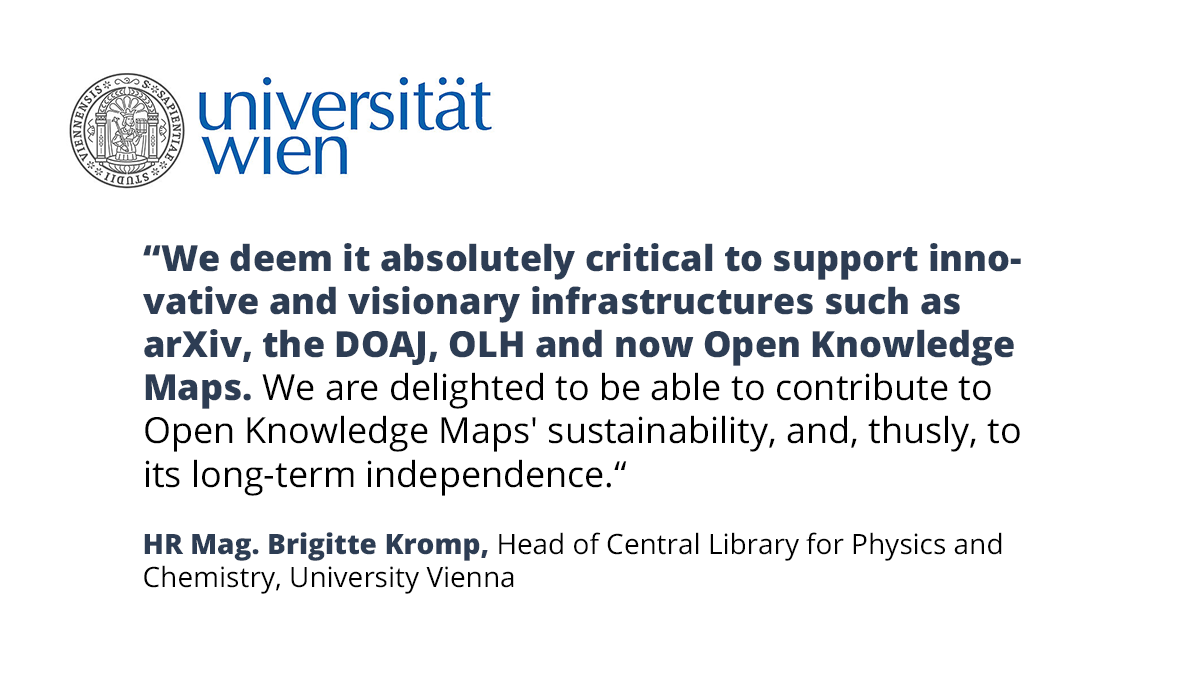
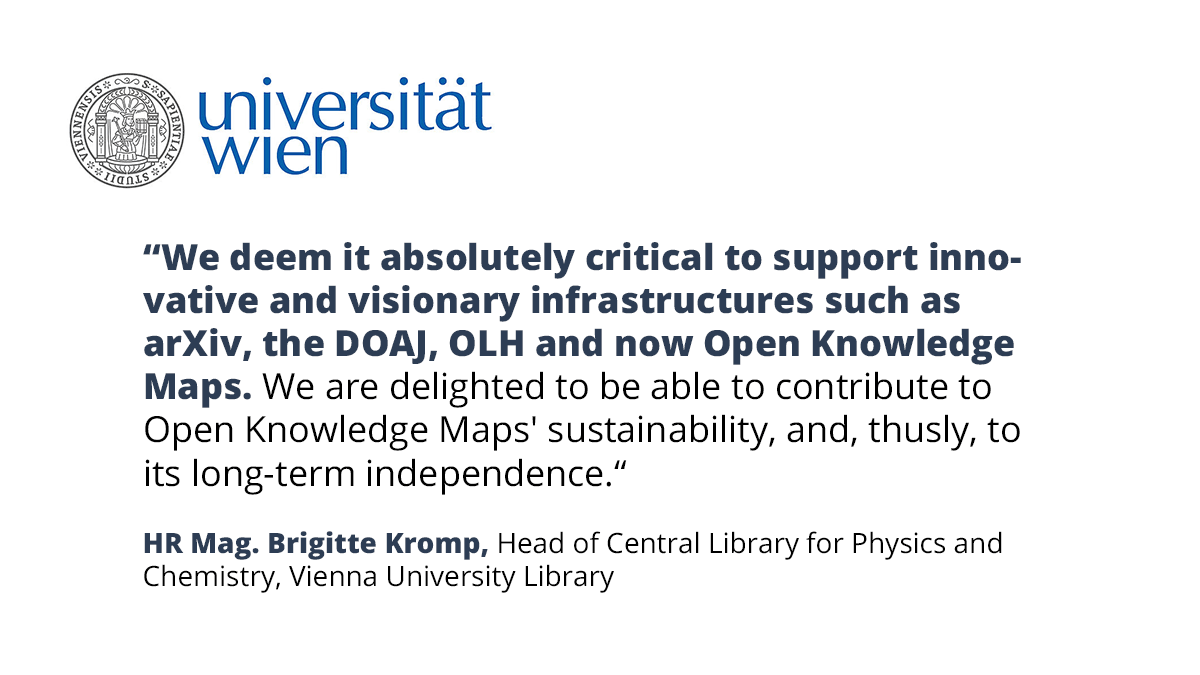
update link / statement univie

diff --git a/components/supporting-members.php b/components/supporting-members.php
@@ -1,4 +1,4 @@
-<a href="https://www.univie.ac.at/" target="_blank"><img src="./img/supporting-members/bos/univie-logo.png" alt="Logo University Vienna"></a>
+<a href="https://bibliothek.univie.ac.at/en/" target="_blank"><img src="./img/supporting-members/bos/univie-logo.png" alt="Logo University Vienna"></a>
 <a href="https://publications.copernicus.org/" target="_blank"><img src="./img/supporting-members/bos/Logo-Copernicus-Pub.png" alt="Logo Copernicus Publishing"></a>
 <a href="https://lbg.ac.at/" target="_blank"><img src="./img/partners/lbg-oisc.png" alt="Logo LBG"></a>
 <a href="https://www.zbw.eu/en/" target="_blank"><img src="./img/supporting-members/bos/logo-zbw.jpg" alt="Logo ZBW"></a>
